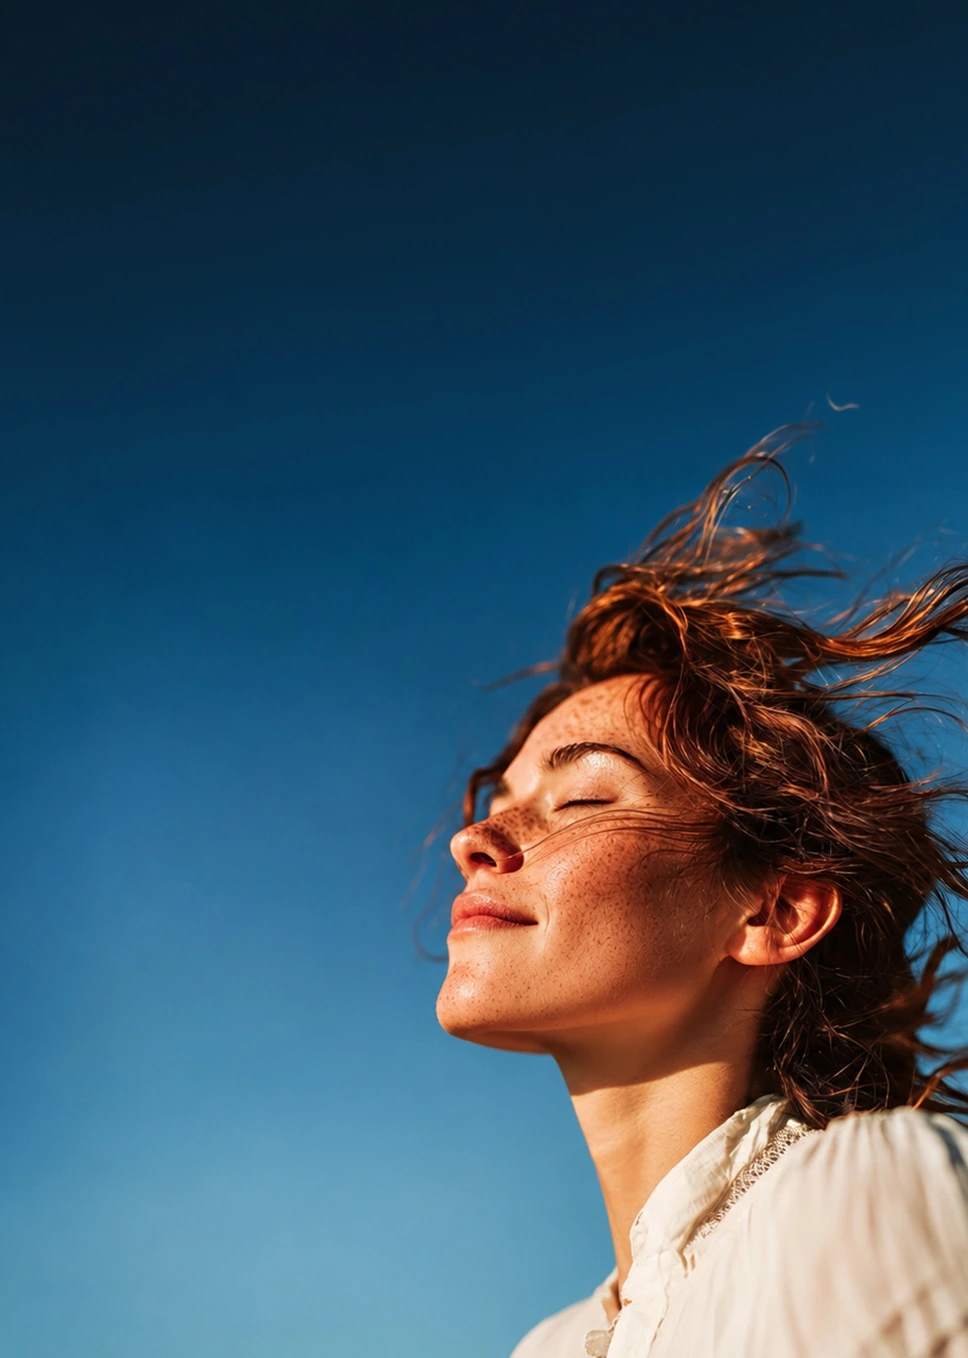
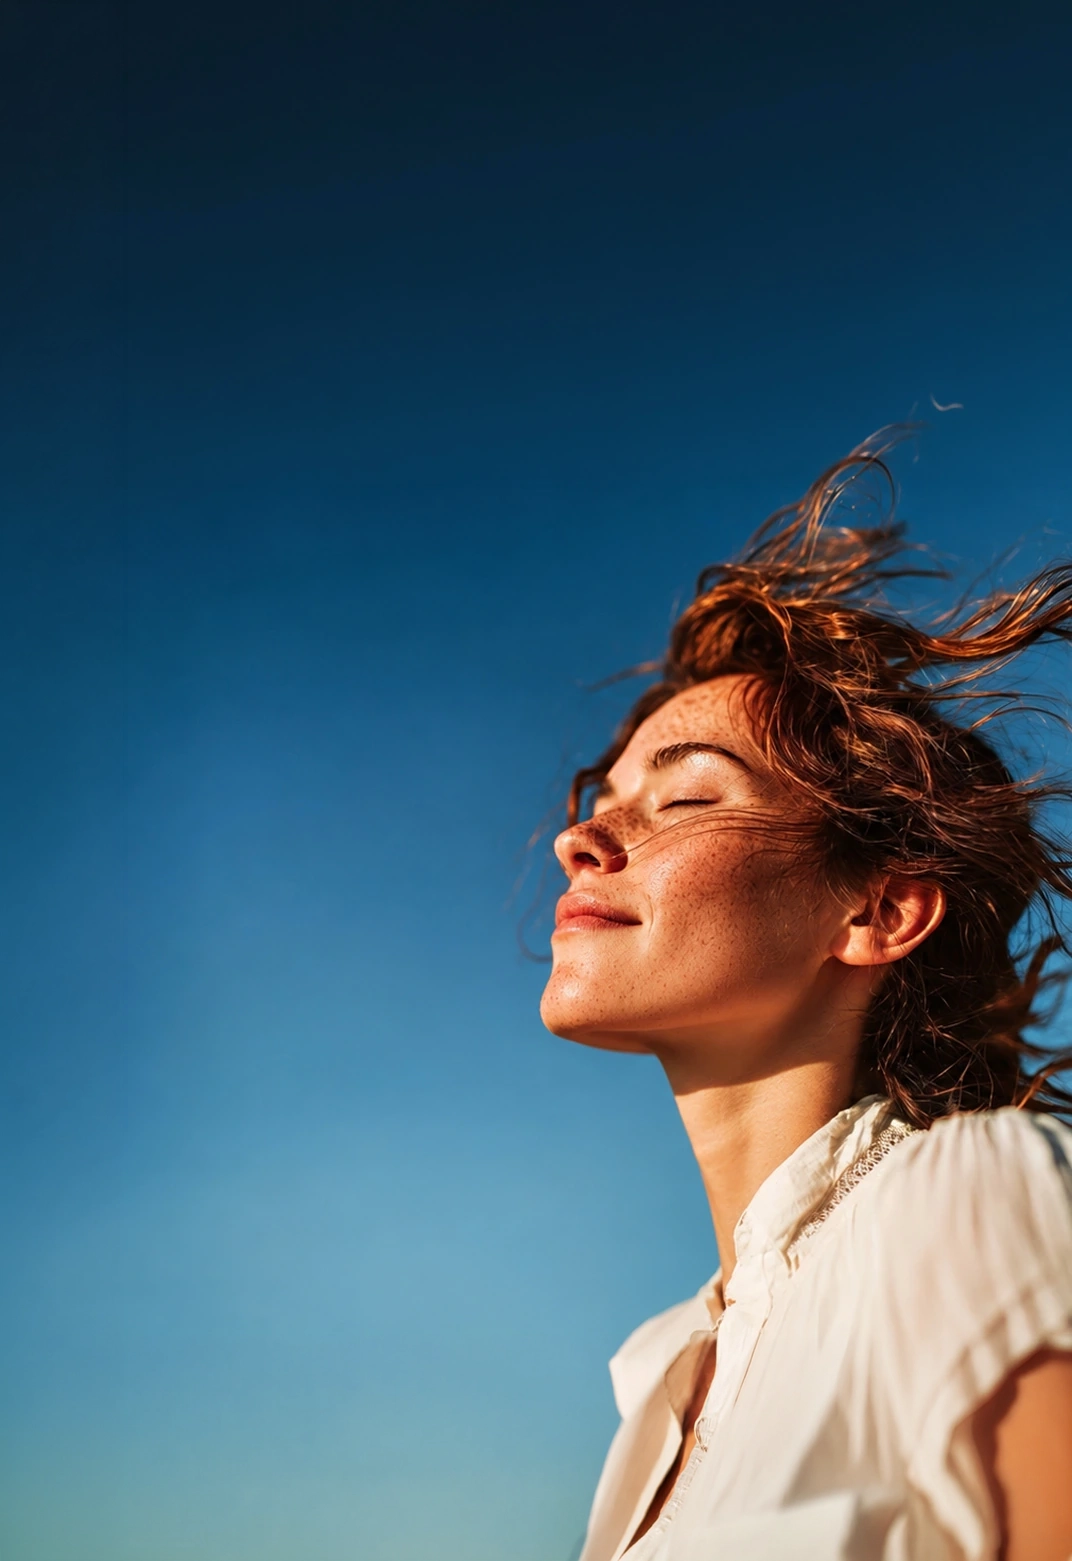
Fit landing sections to a 667px mobile fold.

diff --git a/src/components/four-experiences.tsx b/src/components/four-experiences.tsx
@@ -40,11 +40,11 @@ const cards = [
 function CardCopy({ title, body }: { title: string; body: string }) {
   return (
     <div className="shrink-0">
-      <p className="experience-title relative w-fit text-[12px] tracking-[0.18em] uppercase md:text-[13px]">
+      <p className="experience-title relative w-fit text-[11px] tracking-[0.16em] uppercase md:text-[13px] md:tracking-[0.18em]">
         {title}
         <span className="experience-underline" aria-hidden="true" />
       </p>
-      <p className="mt-1.5 max-w-full text-[12px] leading-5 text-neutral-700 md:text-[13px] md:leading-5 min-[1440px]:max-w-[14rem]">
+      <p className="mt-1 max-w-full text-[11px] leading-4 text-neutral-700 md:mt-1.5 md:text-[13px] md:leading-5 min-[1440px]:max-w-[14rem]">
         {body}
       </p>
     </div>
@@ -55,7 +55,7 @@ export function FourExperiences() {
   const phase = useSectionPhase("four-experiences");
 
   return (
-    <div className="flex h-full flex-col overflow-hidden bg-[#F6F3ED] px-5 pt-24 pb-8 text-neutral-950 md:px-12 md:pt-20 md:pb-10 lg:px-20">
+    <div className="flex h-full flex-col overflow-hidden bg-[#F6F3ED] px-5 pt-20 pb-5 text-neutral-950 md:px-12 md:pt-20 md:pb-10 lg:px-20">
       <div className="mx-auto flex min-h-0 w-full max-w-6xl flex-1 flex-col">
         <div className="grid shrink-0 min-[1440px]:mt-10 min-[1440px]:grid-cols-[minmax(0,1.2fr)_minmax(0,0.8fr)] min-[1440px]:items-end min-[1440px]:gap-20">
           <div>
@@ -64,11 +64,11 @@ export function FourExperiences() {
               <span className="mx-5 h-px w-36 bg-neutral-950" />
             </PaintRule>
 
-            <p className="eyebrow-reveal mt-5 text-[12px] tracking-[0.22em] md:mt-6">
+            <p className="eyebrow-reveal mt-3 text-[12px] tracking-[0.22em] md:mt-6">
               LEARN
             </p>
 
-            <h2 className="mt-3 max-w-[22ch] text-[clamp(1.85rem,3.6vw,3.15rem)] leading-[1.08] tracking-[-0.03em] md:mt-4">
+            <h2 className="mt-2 max-w-[22ch] text-[clamp(1.5rem,6.8vw,1.75rem)] leading-[1.1] tracking-[-0.03em] md:mt-4 md:text-[clamp(1.85rem,3.6vw,3.15rem)] md:leading-[1.08]">
               <span className="block font-heading font-extralight">
                 <WordReveal text="Activate the Minds Seen" delay={0.35} />
               </span>
@@ -78,12 +78,12 @@ export function FourExperiences() {
             </h2>
           </div>
 
-          <div className="animate-fade-up mt-5 max-w-[22rem] text-[14px] leading-6 text-neutral-800 [animation-delay:1.05s] md:mt-6 md:text-[15px] md:leading-7 min-[1440px]:mt-0 min-[1440px]:mb-1">
+          <div className="animate-fade-up mt-3 max-w-[22rem] text-[13px] leading-5 text-neutral-800 [animation-delay:1.05s] md:mt-6 md:text-[15px] md:leading-7 min-[1440px]:mt-0 min-[1440px]:mb-1">
             <p>
               Our first collection brings together four self-paced experiences,
               rooted in neuroinclusion and cognitive science.
             </p>
-            <p className="mt-4">
+            <p className="mt-2.5 md:mt-4">
               As you move through the four modules, you&apos;ll build your own
               Minds Seen Profile—with practical tools to support how you work,
               communicate and relate.
@@ -91,7 +91,7 @@ export function FourExperiences() {
           </div>
         </div>
 
-        <ul className="mt-6 flex min-h-0 flex-1 flex-col content-start gap-3.5 sm:mt-12 md:mt-14 md:grid md:grid-cols-2 md:items-start md:gap-x-8 md:gap-y-8 lg:grid-cols-4 lg:gap-x-12 min-[1440px]:mt-8 min-[1440px]:content-center">
+        <ul className="mt-3 grid min-h-0 flex-1 grid-cols-2 content-start gap-x-3.5 gap-y-3 sm:mt-12 md:mt-14 md:grid-cols-2 md:gap-x-8 md:gap-y-8 lg:grid-cols-4 lg:gap-x-12 min-[1440px]:mt-8 min-[1440px]:content-center">
           {cards.map((card, index) => {
             const fromUp = index % 2 === 0;
             const captionAbove = card.caption === "above";
@@ -99,15 +99,15 @@ export function FourExperiences() {
             return (
               <li
                 key={card.title}
-                className={`experience-card group flex flex-row items-center gap-4 md:flex-col md:gap-0 ${fromUp ? "card-up" : "card-down"} ${captionAbove ? "min-[1440px]:flex-col-reverse" : ""}`}
+                className={`experience-card group flex flex-col ${fromUp ? "card-up" : "card-down"} ${captionAbove ? "min-[1440px]:flex-col-reverse" : ""}`}
                 style={{ animationDelay: `${0.62 + index * 0.12}s` }}
               >
-                <div className="experience-photo relative aspect-square w-[30%] shrink-0 overflow-hidden md:aspect-auto md:h-[min(12.5rem,22vh)] md:w-full">
+                <div className="experience-photo relative h-[4.25rem] w-full overflow-hidden md:h-[min(12.5rem,22vh)]">
                   <Image
                     src={card.image}
                     alt={card.alt}
                     fill
-                    sizes="(min-width: 1440px) 22vw, (min-width: 1024px) 22vw, (min-width: 768px) 45vw, 30vw"
+                    sizes="(min-width: 1440px) 22vw, (min-width: 1024px) 22vw, (min-width: 768px) 45vw, 45vw"
                     quality={90}
                     className="object-cover"
                   />
@@ -115,8 +115,8 @@ export function FourExperiences() {
                 <div
                   className={
                     captionAbove
-                      ? "min-w-0 flex-1 md:mt-3 min-[1440px]:mt-0 min-[1440px]:mb-3"
-                      : "min-w-0 flex-1 md:mt-3"
+                      ? "min-w-0 mt-2 md:mt-3 min-[1440px]:mt-0 min-[1440px]:mb-3"
+                      : "min-w-0 mt-2 md:mt-3"
                   }
                 >
                   <CardCopy title={card.title} body={card.body} />

diff --git a/src/components/whats-next.tsx b/src/components/whats-next.tsx
@@ -28,19 +28,19 @@ export function WhatsNext() {
   const phase = useSectionPhase("whats-next");
 
   return (
-    <div className="flex h-full flex-col overflow-hidden bg-[#F6F3ED] px-5 pt-24 pb-8 text-neutral-950 md:px-12 md:pt-20 md:pb-10 lg:px-20">
-      <div className="mx-auto grid min-h-0 w-full max-w-6xl flex-1 content-start grid-cols-1 gap-6 lg:grid-cols-[minmax(0,1.05fr)_minmax(0,0.9fr)] lg:items-stretch lg:gap-20">
+    <div className="flex h-full flex-col overflow-hidden bg-[#F6F3ED] px-5 pt-20 pb-5 text-neutral-950 md:px-12 md:pt-20 md:pb-10 lg:px-20">
+      <div className="mx-auto grid min-h-0 w-full max-w-6xl flex-1 content-start grid-cols-1 gap-4 lg:grid-cols-[minmax(0,1.05fr)_minmax(0,0.9fr)] lg:items-stretch lg:gap-20">
         <div className="flex min-h-0 flex-col">
           <PaintRule phase={phase} delay={180}>
             <span className="text-[13px] tracking-[0.18em]">04</span>
             <span className="mx-5 h-px w-36 bg-neutral-950" />
           </PaintRule>
 
-          <p className="eyebrow-reveal mt-5 text-[12px] tracking-[0.22em] md:mt-6">
+          <p className="eyebrow-reveal mt-3 text-[12px] tracking-[0.22em] md:mt-6">
             WHAT&apos;S NEXT
           </p>
 
-          <h2 className="mt-3 max-w-[18ch] text-[clamp(2.1rem,4.4vw,3.7rem)] leading-[1.05] tracking-[-0.03em] md:mt-4">
+          <h2 className="mt-2 max-w-[18ch] text-[clamp(1.65rem,7vw,1.9rem)] leading-[1.08] tracking-[-0.03em] md:mt-4 md:text-[clamp(2.1rem,4.4vw,3.7rem)] md:leading-[1.05]">
             <span className="block font-heading font-extralight">
               <WordReveal text="A growing space for" delay={0.35} />
             </span>
@@ -49,7 +49,7 @@ export function WhatsNext() {
             </span>
           </h2>
 
-          <p className="animate-fade-up mt-5 max-w-[24rem] text-[14px] leading-6 text-neutral-800 [animation-delay:1.05s] md:mt-6 md:text-[15px] md:leading-7">
+          <p className="animate-fade-up mt-3 max-w-[24rem] text-[14px] leading-5 text-neutral-800 [animation-delay:1.05s] md:mt-6 md:text-[15px] md:leading-7">
             Minds Seen is just getting started. Beyond our learning experiences,
             we&apos;re exploring new research, perspectives and AI-powered tools
             designed to help different minds understand, communicate and work
@@ -59,34 +59,34 @@ export function WhatsNext() {
           <Cta
             href="#join-us"
             tone="on-light"
-            className="animate-fade-up mt-6 w-fit [animation-delay:1.2s] md:mt-8"
+            className="animate-fade-up mt-4 w-fit [animation-delay:1.2s] md:mt-8"
           >
             Join the Waitlist
           </Cta>
         </div>
 
-        <ul className="grid min-h-0 grid-cols-2 gap-4 sm:gap-6 lg:flex lg:h-full lg:flex-col lg:justify-between lg:gap-10">
+        <ul className="grid min-h-0 grid-cols-2 gap-3 sm:gap-6 lg:flex lg:h-full lg:flex-col lg:justify-between lg:gap-10">
           {cards.map((card, index) => (
             <li
               key={card.title}
               className={`experience-card group ${card.motion}`}
               style={{ animationDelay: `${0.62 + index * 0.14}s` }}
             >
-              <div className="relative h-[min(7.75rem,18vh)] w-full overflow-hidden md:h-[min(11.5rem,21vh)] lg:h-[min(13.5rem,25vh)]">
+              <div className="relative h-[min(6.25rem,15vh)] w-full overflow-hidden md:h-[min(11.5rem,21vh)] lg:h-[min(13.5rem,25vh)]">
                 <Image
                   src={card.image}
                   alt={card.alt}
                   fill
                   sizes="(min-width: 1024px) 38vw, 45vw"
                   quality={90}
-                  className="object-cover"
+                  className="object-cover object-center"
                 />
               </div>
-              <h3 className="experience-title relative mt-3 w-fit text-[clamp(1.15rem,4.6vw,1.45rem)] leading-none tracking-[-0.02em] font-heading font-extralight lg:mt-4 lg:text-[clamp(1.45rem,2vw,1.85rem)]">
+              <h3 className="experience-title relative mt-2 w-fit text-[clamp(1.15rem,4.6vw,1.45rem)] leading-none tracking-[-0.02em] font-heading font-extralight lg:mt-4 lg:text-[clamp(1.45rem,2vw,1.85rem)]">
                 {card.title}
                 <span className="experience-underline" aria-hidden="true" />
               </h3>
-              <p className="mt-1.5 max-w-[22rem] text-[14px] leading-6 text-neutral-700 md:text-[15px] md:leading-7 lg:mt-2">
+              <p className="mt-1 max-w-[22rem] text-[13px] leading-5 text-neutral-700 md:mt-1.5 md:text-[15px] md:leading-7 lg:mt-2">
                 {card.body}
               </p>
             </li>

diff --git a/src/components/the-platform.tsx b/src/components/the-platform.tsx
@@ -119,7 +119,7 @@ export function ThePlatform() {
           </div>
         </div>
 
-        <div className="relative z-10 flex h-full flex-col items-center justify-center px-5 pt-20 pb-6 text-center text-white sm:justify-start sm:pt-24 sm:pb-8 md:px-12 md:pt-16">
+        <div className="relative z-10 flex h-full flex-col items-center justify-center px-5 pt-20 pb-5 text-center text-white sm:justify-start sm:pt-24 sm:pb-8 md:px-12 md:pt-16">
           <PaintRule phase={phase} delay={180}>
             <div className="flex w-[min(68rem,82vw)] items-center">
               <span className="h-px flex-1 bg-white/90" />
@@ -128,11 +128,11 @@ export function ThePlatform() {
             </div>
           </PaintRule>
 
-          <p className="eyebrow-reveal mt-8 text-[12px] tracking-[0.22em] md:mt-6">
+          <p className="eyebrow-reveal mt-5 text-[12px] tracking-[0.22em] md:mt-6">
             A LIVING NEUROINCLUSIVE SPACE
           </p>
 
-          <h2 className="mt-5 max-w-[18ch] text-[clamp(2.1rem,4.6vw,3.85rem)] leading-[1.08] tracking-[-0.03em] md:mt-4 md:max-w-none">
+          <h2 className="mt-3 max-w-[18ch] text-[clamp(1.65rem,7vw,1.9rem)] leading-[1.1] tracking-[-0.03em] md:mt-4 md:max-w-none md:text-[clamp(2.1rem,4.6vw,3.85rem)] md:leading-[1.08]">
             <span className="block font-heading font-extralight">
               <WordReveal
                 text="A guided learning experience to"
@@ -145,22 +145,22 @@ export function ThePlatform() {
             </span>
           </h2>
 
-          <p className="animate-fade-up mt-6 max-w-[28rem] text-[15px] leading-7 text-white/90 [animation-delay:1.05s] md:mt-5 md:text-base">
+          <p className="animate-fade-up mt-4 max-w-[28rem] text-[15px] leading-6 text-white/90 [animation-delay:1.05s] md:mt-5 md:leading-7 md:text-base">
             Every mind has its own patterns. Learn to notice yours. Discover
             others. Find language for what usually goes unheard.
           </p>
 
-          <ul className="mt-6 mb-0 flex flex-col items-center sm:mt-auto sm:mb-5 sm:flex-row sm:justify-center sm:pt-12 md:pt-16">
+          <ul className="mt-6 mb-0 flex flex-row items-center justify-center sm:mt-auto sm:mb-5 sm:pt-12 md:pt-16">
             {circles.map((circle, index) => (
               <li
                 key={circle.title}
-                className="circle-reveal z-0 -my-3 flex size-[8rem] flex-col items-center justify-center rounded-full border border-white/90 px-4 transition-colors duration-300 hover:z-10 hover:bg-white hover:text-neutral-950 sm:-mx-5 sm:my-0 sm:size-[13.5rem] sm:px-7 md:-mx-7 md:size-[15rem] md:px-8"
+                className="circle-reveal z-0 -mx-1 flex size-[clamp(5.6rem,28.5vw,7rem)] flex-col items-center justify-center rounded-full border border-white/90 px-2.5 transition-colors duration-300 hover:z-10 hover:bg-white hover:text-neutral-950 sm:-mx-5 sm:size-[13.5rem] sm:px-7 md:-mx-7 md:size-[15rem] md:px-8"
                 style={{ animationDelay: `${0.82 + index * 0.2}s` }}
               >
-                <p className="text-[11px] tracking-[0.18em] uppercase sm:text-[12px] sm:tracking-[0.2em]">
+                <p className="text-[10px] tracking-[0.16em] uppercase sm:text-[12px] sm:tracking-[0.2em]">
                   {circle.title}
                 </p>
-                <p className="mt-1.5 max-w-[7rem] text-[12px] leading-4 text-current/85 sm:mt-2 sm:max-w-[8.5rem] sm:text-[13px] sm:leading-5">
+                <p className="mt-1 max-w-[5.25rem] text-[11px] leading-3.5 text-current/85 sm:mt-2 sm:max-w-[8.5rem] sm:text-[13px] sm:leading-5">
                   {circle.body}
                 </p>
               </li>

diff --git a/src/components/why-it-matters.tsx b/src/components/why-it-matters.tsx
@@ -9,8 +9,8 @@ export function WhyItMatters() {
   const phase = useSectionPhase("why-it-matters");
 
   return (
-    <div className="flex h-full items-center overflow-hidden bg-[#F6F3ED] px-5 pt-24 pb-10 text-neutral-950 md:px-10 lg:px-16">
-      <div className="mx-auto grid w-full max-w-6xl items-center gap-8 md:gap-12 lg:grid-cols-[minmax(0,1.05fr)_minmax(0,0.95fr)] lg:gap-20">
+    <div className="flex h-full items-center overflow-hidden bg-[#F6F3ED] px-5 pt-20 pb-5 text-neutral-950 md:px-10 md:pt-24 md:pb-10 lg:px-16">
+      <div className="mx-auto grid w-full max-w-6xl items-center gap-4 md:gap-12 lg:grid-cols-[minmax(0,1.05fr)_minmax(0,0.95fr)] lg:gap-20">
         <div className="flex justify-center lg:justify-start">
           <WhimTexture phase={phase} />
         </div>
@@ -22,11 +22,11 @@ export function WhyItMatters() {
             <span className="h-4 w-px bg-neutral-950" />
           </PaintRule>
 
-          <p className="eyebrow-reveal mt-10 text-[12px] tracking-[0.22em] text-neutral-950">
+          <p className="eyebrow-reveal mt-4 text-[12px] tracking-[0.22em] text-neutral-950 md:mt-10">
             WHAT IS NEUROINCLUSION?
           </p>
 
-          <h2 className="mt-5 text-[clamp(2.4rem,5vw,4.25rem)] leading-[1.05] tracking-[-0.03em]">
+          <h2 className="mt-3 text-[clamp(1.75rem,7.5vw,2rem)] leading-[1.08] tracking-[-0.03em] md:mt-5 md:text-[clamp(2.4rem,5vw,4.25rem)] md:leading-[1.05]">
             <span className="block font-heading font-extralight">
               <WordReveal text="Our minds experience" delay={0.35} />
             </span>
@@ -35,11 +35,11 @@ export function WhyItMatters() {
             </span>
           </h2>
 
-          <p className="animate-fade-up mt-8 max-w-[22rem] text-[15px] leading-7 text-neutral-800 [animation-delay:1.05s] md:text-base">
+          <p className="animate-fade-up mt-4 max-w-[22rem] text-[15px] leading-6 text-neutral-800 [animation-delay:1.05s] md:mt-8 md:leading-7 md:text-base">
             Neuroinclusion starts with understanding those differences – and
             making room for every mind to thrive.
           </p>
-          <p className="animate-fade-up mt-4 max-w-[22rem] text-[15px] leading-7 text-neutral-800 [animation-delay:1.18s] md:text-base">
+          <p className="animate-fade-up mt-2.5 max-w-[22rem] text-[15px] leading-6 text-neutral-800 [animation-delay:1.18s] md:mt-4 md:leading-7 md:text-base">
             Minds Seen brings that understanding into everyday life, beginning
             with the way we experience ourselves and others.
           </p>

diff --git a/src/components/hero.tsx b/src/components/hero.tsx
@@ -16,13 +16,13 @@ export function Hero() {
     <div className="relative h-full overflow-hidden bg-[#F6F3ED]">
       <div className="hero-mask absolute inset-0">
         <Image
-          src="/images/hero-mobile.webp"
+          src="/images/hero-mobile2.webp"
           quality={90}
           alt="A person with eyes closed, hair moving in the wind against a clear blue sky"
           fill
           priority
           sizes="100vw"
-          className="object-cover object-[48%_center] md:hidden"
+          className="object-cover object-[0%_center] md:hidden"
         />
         <Image
           src="/images/hero.webp"
@@ -69,7 +69,7 @@ export function Hero() {
           </span>
         </h1>
 
-        <p className="animate-fade-up mt-8 max-w-[14rem] text-[14px] leading-6 text-white/90 [animation-delay:1.15s] md:mt-7 md:max-w-[24.5rem] md:text-[15px] md:leading-7 md:text-base">
+        <p className="animate-fade-up mt-8 max-w-[12rem] text-[14px] leading-6 text-white/90 [animation-delay:1.15s] md:mt-7 md:max-w-[24.5rem] md:text-[15px] md:leading-7 md:text-base">
           Minds Seen is a living neuroinclusive space that helps you understand
           how you think, communicate and connect—with tools to turn
           self-discovery into everyday insight.

diff --git a/src/components/join-us.tsx b/src/components/join-us.tsx
@@ -15,7 +15,7 @@ export function JoinUs() {
       <div className="mx-auto flex min-h-0 w-full max-w-6xl flex-1 flex-col">
         <div className="grid grid-cols-1 gap-12 lg:grid-cols-[minmax(0,1.15fr)_minmax(0,0.9fr)] lg:items-start lg:gap-20 lg:pt-6">
           <div>
-            <h2 className="text-[clamp(2.25rem,4.6vw,3.85rem)] leading-[1.08] tracking-[-0.03em]">
+            <h2 className="text-[clamp(1.7rem,7.2vw,1.95rem)] leading-[1.1] tracking-[-0.03em] md:text-[clamp(2.25rem,4.6vw,3.85rem)] md:leading-[1.08]">
               <span className="block font-heading font-extralight">
                 <WordReveal text="Different minds." delay={0.35} />
               </span>
@@ -31,7 +31,7 @@ export function JoinUs() {
           </div>
 
           <div className="lg:pt-3">
-            <p className="font-heading text-[clamp(1.5rem,2.2vw,1.9rem)] font-extralight leading-none">
+            <p className="font-heading text-[1.25rem] font-extralight leading-none md:text-[clamp(1.5rem,2.2vw,1.9rem)]">
               <WordReveal text="Join us." delay={0.5} />
             </p>
 

diff --git a/src/components/whim-texture.tsx b/src/components/whim-texture.tsx
@@ -40,7 +40,7 @@ export function WhimTexture({ phase }: { phase: SectionPhase }) {
 
   return (
     <div
-      className="whim-mask relative aspect-[495/506] w-[min(100%,18rem)] sm:w-[min(100%,24rem)] lg:w-[min(100%,34rem)]"
+      className="whim-mask relative aspect-[495/506] w-[min(100%,11rem)] sm:w-[min(100%,18rem)] lg:w-[min(100%,26rem)]"
       style={{
         WebkitMaskImage: "url(/images/WHIM-vector.svg)",
         maskImage: "url(/images/WHIM-vector.svg)",
